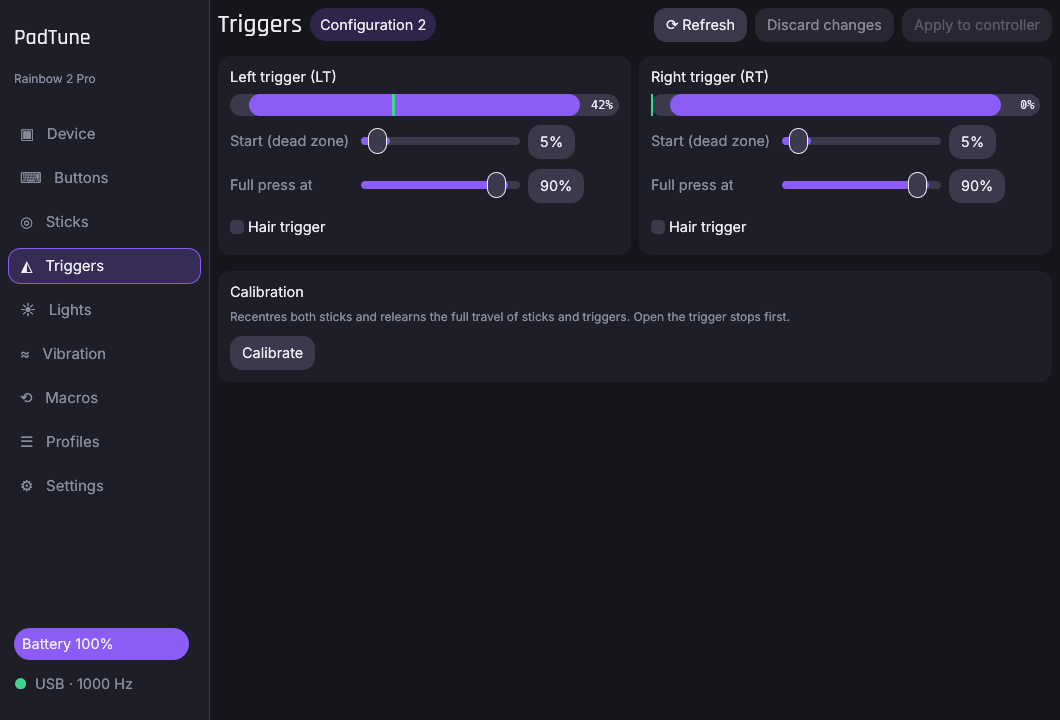
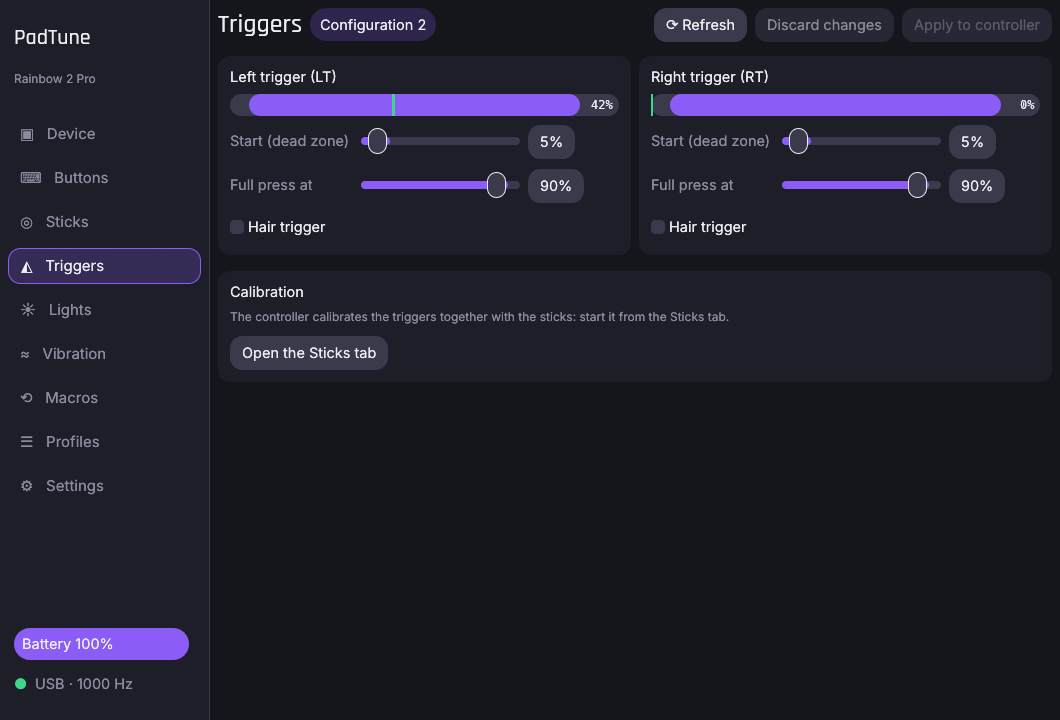
Calibrate: count LT/RT, not L3/R3; one place for calibration
- During the sticks run bytes 0..3 of the progress report are the usual
  key bits: the 20/40 in byte 2 are L3/R3, LT/RT are slots 8 and 9.
  Found on hardware: clicking the sticks filled the trigger dots.
- The controller calibrates sticks and triggers in one run, so the
  Calibrate panel lives in the Sticks tab; the Triggers tab links to it.
- The worker logs every calibration step to stderr, to learn what the
  controller replies when a run is not confirmed.

Changed region(s): [[0.2179, 0.4278, 0.7472, 0.5194]]

diff --git a/src/protocol/calibration.rs b/src/protocol/calibration.rs
@@ -4,8 +4,8 @@
 //!
 //! Sticks and triggers: send [`start`], let the user rotate both sticks along
 //! the edge and pull both triggers fully, then send [`finish`]. Meanwhile the
-//! controller pushes `02` reports that carry [`Progress`] flags instead of
-//! key bits. The gyroscope run needs only [`start`]: it ends by itself after
+//! controller pushes `02` reports: bytes 0..4 are the usual key bits, byte 4
+//! holds the sticks' edge flags (see [`Progress`]). The gyroscope run needs only [`start`]: it ends by itself after
 //! about 5 s, and [`finish`] cancels it.
 
 use super::frame::{REPORT_LEN, short};
@@ -87,8 +87,9 @@ pub fn decode_step(payload: &[u8]) -> Result<Step> {
 /// (verified one direction at a time on a Rainbow 2 Pro). Sector `0` is up
 /// and the sectors go clockwise.
 const EDGE_BITS: [u8; 4] = [0x1, 0x8, 0x2, 0x4];
-/// Byte 2 of the report: trigger at full travel.
-const TRIGGER_BITS: [u8; 2] = [0x20, 0x40];
+/// Key bits of LT and RT in the first four bytes (key slots 8 and 9, as in
+/// the key report). Slots 13 and 14 next to them are L3 and R3.
+const TRIGGER_KEYS: [u32; 2] = [1 << 8, 1 << 9];
 
 /// Edge sector (0..8, circular) of a stick from its 4 flag bits; `None`
 /// while the stick is away from the edge.
@@ -115,15 +116,16 @@ pub struct Progress {
 }
 
 pub fn decode_progress(payload: &[u8]) -> Result<Progress> {
-    let [_, _, triggers, _, edges, ..] = *payload else {
+    let [k0, k1, k2, k3, edges, ..] = *payload else {
         return Err(Error::Protocol("calibration progress too short".into()));
     };
+    let keys = u32::from_be_bytes([k0, k1, k2, k3]);
     Ok(Progress {
         sectors: [
             sector(edges & 0x0f, EDGE_BITS),
             sector(edges >> 4, EDGE_BITS),
         ],
-        triggers: TRIGGER_BITS.map(|b| triggers & b != 0),
+        triggers: TRIGGER_KEYS.map(|b| keys & b != 0),
     })
 }
 
@@ -227,7 +229,7 @@ mod tests {
         assert_eq!(t.laps, [0, GOAL]);
         assert_eq!(t.seen[1], 0);
         for _ in 0..GOAL {
-            t.update(decode_progress(&[0, 0, 0x60, 0, 0]).unwrap());
+            t.update(decode_progress(&[0, 0, 0x03, 0, 0]).unwrap());
             t.update(decode_progress(&[0, 0, 0x00, 0, 0]).unwrap());
         }
         assert_eq!(t.presses, [GOAL, GOAL]);
@@ -235,6 +237,15 @@ mod tests {
     }
 
     // The left stick alone moves the low nibble, the right stick the high one.
+    #[test]
+    fn stick_clicks_are_not_triggers() {
+        // L3 + R3 (slots 13, 14): byte 2 = 0x60.
+        let p = decode_progress(&[0, 0, 0x60, 0, 0]).unwrap();
+        assert_eq!(p.triggers, [false, false]);
+        let lt = decode_progress(&[0, 0, 0x01, 0, 0]).unwrap();
+        assert_eq!(lt.triggers, [true, false]);
+    }
+
     #[test]
     fn single_directions_from_the_hardware_log() {
         // Up, right, down, left, one at a time: right stick, then left.

diff --git a/src/gui/worker.rs b/src/gui/worker.rs
@@ -184,6 +184,12 @@ fn run(rx: Receiver<Request>, tx: Sender<Event>, wake: impl Fn()) {
                             }
                             calibration::OP => {
                                 if let Ok(step) = calibration::decode_step(payload) {
+                                    // Diagnostics: the meaning of steps other
+                                    // than the logged ones is still unknown.
+                                    eprintln!(
+                                        "padtune: calibration {:?} step {:02x}",
+                                        step.target, step.step
+                                    );
                                     if step.is_last() {
                                         calibrating = None;
                                     }
@@ -196,6 +202,7 @@ fn run(rx: Receiver<Request>, tx: Sender<Event>, wake: impl Fn()) {
                 }
                 if let Some((_, by)) = calibrating {
                     if Instant::now() > by {
+                        eprintln!("padtune: calibration got no closing reply in time");
                         calibrating = None;
                         emit(Event::CalibrationLost);
                     }

diff --git a/src/i18n.rs b/src/i18n.rs
@@ -265,6 +265,8 @@ strings! {
     CalDone => "Calibration saved.", "Calibrazione salvata.";
     CalLost => "The controller did not confirm the calibration. Try again.", "Il controller non ha confermato la calibrazione. Riprova.";
     CalCancel => "Cancel", "Annulla";
+    CalOnSticksTab => "The controller calibrates the triggers together with the sticks: start it from the Sticks tab.", "Il controller calibra i grilletti insieme agli stick: avviala dalla scheda Stick.";
+    OpenSticksTab => "Open the Sticks tab", "Apri la scheda Stick";
     GyroTitle => "Gyroscope", "Giroscopio";
     GyroIntro => "Lay the controller on a level desk and do not touch it while it calibrates (about 5 s).", "Appoggia il controller su un piano e non toccarlo durante la calibrazione (circa 5 s).";
     GyroStart => "Calibrate gyroscope", "Calibra giroscopio";

diff --git a/src/gui/app.rs b/src/gui/app.rs
@@ -978,7 +978,7 @@ impl App {
         }
     }
 
-    /// Sticks and triggers calibration, shown in both tabs.
+    /// Sticks and triggers calibration (the controller does both in one run).
     fn calibration_card(&mut self, ui: &mut egui::Ui) {
         let lang = self.lang();
         card(ui, |ui| {
@@ -1329,7 +1329,15 @@ impl App {
             }
         });
         ui.add_space(8.0);
-        self.calibration_card(ui);
+        let lang = self.lang();
+        card(ui, |ui| {
+            ui.label(RichText::new(tr(lang, T::FCalT)).strong());
+            ui.label(dim(tr(lang, T::CalOnSticksTab)));
+            ui.add_space(4.0);
+            if ui.button(tr(lang, T::OpenSticksTab)).clicked() {
+                self.tab = Tab::Sticks;
+            }
+        });
     }
 
     fn page_vibration(&mut self, ui: &mut egui::Ui) {

diff --git a/docs/hw-notes/calibration.md b/docs/hw-notes/calibration.md
@@ -59,11 +59,16 @@ opcode) without `D2` being on. They are progress flags, not key bits:
 * The directions were logged one at a time on a second run (2026-11-08); the
   first run's rotation, `20 a0 80 90 10 50 40 60`, was counter-clockwise from
   the bottom.
-* byte 2: `20` and `40` are the two triggers at full travel, `60` both.
+* bytes 0..3: the usual key bits (u32 BE, key slots as in the key report).
+  The `20`/`40` seen in byte 2 on the first run are L3 and R3 (slots 13, 14),
+  not the triggers: PadTune counted them as LT/RT until the user noticed that
+  clicking the sticks filled the trigger dots. LT and RT are slots 8 and 9
+  (byte 2 `01`, `02`).
 * Sticks (HW, 2026-11-08): rotating the left stick alone in PadTune lit the
   ring of the other stick until the nibbles were swapped, so low = left.
-* Which trigger owns `20` and which `40` is ipotesi (PadTune assumes
-  `20` = LT).
+* Whether LT/RT key bits are set during the run at full travel or at a
+  lower threshold is not measured yet (ipotesi: same threshold as the key
+  report).
 
 ## Result (HW)
 
@@ -90,4 +95,6 @@ carry no raw motion data, only its effect on the sticks once it is mapped.
 
 * Meaning of step `05`, if it exists, and of a failed run's reply.
 * Whether gamepad output pauses during the sticks run, as it does with `D2`.
-* Trigger ownership of the progress flags (LT/RT).
+* What the controller replies after END when the sticks were not rotated
+  (PadTune reported a missing confirmation once; it now logs every step to
+  stderr).

diff --git a/README.it.md b/README.it.md
@@ -17,7 +17,7 @@ l'interfaccia di configurazione del controller, quindi ogni impostazione resta
 |---|---|
 | **Tasti** | Rimappa qualsiasi tasto su un altro tasto o su un tasto della tastiera (con modificatori), disattivalo, **turbo** per tasto e velocità del turbo. Clicca il tasto sul disegno del controller. |
 | **Stick** | Editor della curva (zona morta, anti zona morta, due punti, limite esterno, uscita massima), preset, tre set di curve, posizione dello stick in tempo reale. Calibrazione di stick e grilletti; giroscopio: quale stick muove, calibrazione. |
-| **Grilletti** | Inizio della zona morta, punto di pressione piena, hair trigger, corsa in tempo reale, calibrazione. |
+| **Grilletti** | Inizio della zona morta, punto di pressione piena, hair trigger, corsa in tempo reale (la calibrazione è nella scheda Stick). |
 | **Luci** | Effetto della striscia LED (fisso, respiro, gradiente, lampeggio; velocità, luminosità, fino a 7 colori per lato, oppure sincronizzato con il logo), luminosità della striscia, colore del logo HOME con intensità, valori di fabbrica con un clic. |
 | **Macro** | Modifica le quattro macro del controller passo per passo (tasti premuti, durata) e associale a M1/M2. |
 | **Polling** | Lettura e impostazione a 250 / 500 / 1000 / 2000 Hz. |

diff --git a/README.md b/README.md
@@ -17,7 +17,7 @@ works on any PC or console afterwards.
 |---|---|
 | **Buttons** | Remap any button to another button or to a keyboard key (with modifiers), disable it, per-button **turbo** and turbo speed. Click the button on a drawing of your controller. |
 | **Sticks** | Response curve editor (dead zone, anti-dead zone, two curve points, outer limit, max output), presets, three curve sets, live stick position. Stick and trigger calibration; gyroscope: which stick it moves, calibration. |
-| **Triggers** | Dead zone start, full-press point, hair trigger, live trigger travel, calibration. |
+| **Triggers** | Dead zone start, full-press point, hair trigger, live trigger travel (calibration is in the Sticks tab). |
 | **Lights** | Light-strip effect (static, breathing, gradient, flicker; speed, brightness, up to 7 colours per side, or synced with the logo), strip brightness, HOME logo colour with intensity, factory defaults with one click. |
 | **Macros** | Edit the four on-board macros step by step (buttons held, duration), bind them to M1/M2. |
 | **Polling rate** | Read and set 250 / 500 / 1000 / 2000 Hz. |

diff --git a/docs/PROTOCOL.md b/docs/PROTOCOL.md
@@ -169,10 +169,9 @@ colour. Full notes: [hw-notes/light-strip-re.md](hw-notes/light-strip-re.md).
 `1B` starts and ends the on-controller calibration (HW, both targets).
 Sticks and triggers: send start, let the user rotate both sticks along the
 edge and pull both triggers fully, then send end. While it runs, the
-controller pushes `02` reports that are progress flags, not key bits: byte 4
-holds the edge sectors reached by each stick (low nibble left, high nibble
-right, HW), byte 2
-`20`/`40` the triggers at full travel. The gyroscope run needs only start: the
+controller pushes `02` reports: bytes 0..3 are the usual key bits (LT, RT
+are slots 8, 9), byte 4 holds where each stick is at the edge (low nibble
+left, high nibble right; up `1`, right `8`, down `2`, left `4`, HW). The gyroscope run needs only start: the
 controller lies flat and replies `01 04 00` after about 5 s by itself.
 Calibration data is not part of the profile (`D6` unchanged). Full log and
 results: [hw-notes/calibration.md](hw-notes/calibration.md).

diff --git a/CHANGELOG.md b/CHANGELOG.md
@@ -6,6 +6,12 @@
 - Calibrate: the left and right stick rings were swapped and their sectors
   drawn in the wrong places; rotating the left stick now fills the left ring,
   and pushing a stick up lights the top of its ring.
+- Calibrate: the LT/RT dots counted L3/R3 clicks; they now count trigger
+  presses.
+
+### Changed
+- Calibration lives in the Sticks tab only (the controller calibrates sticks
+  and triggers in one run); the Triggers tab points to it.
 
 ## [0.3.0] - 2026-11-08
 
